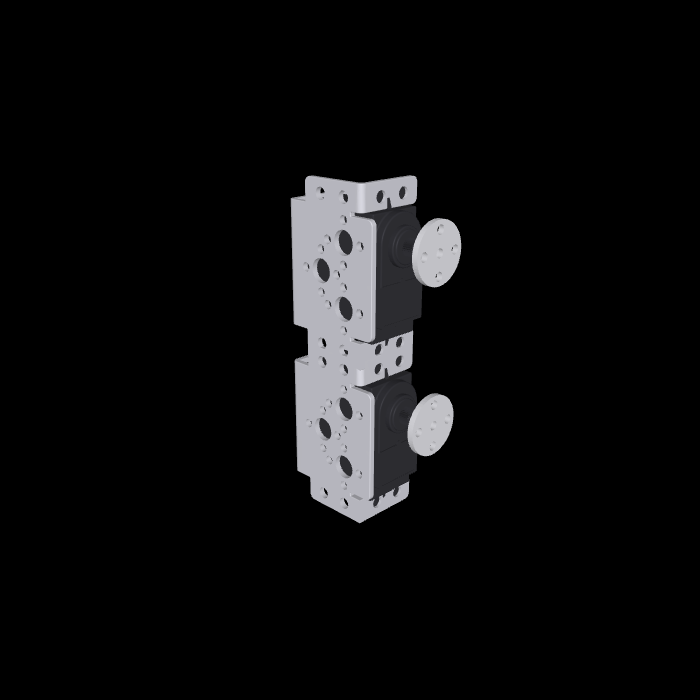
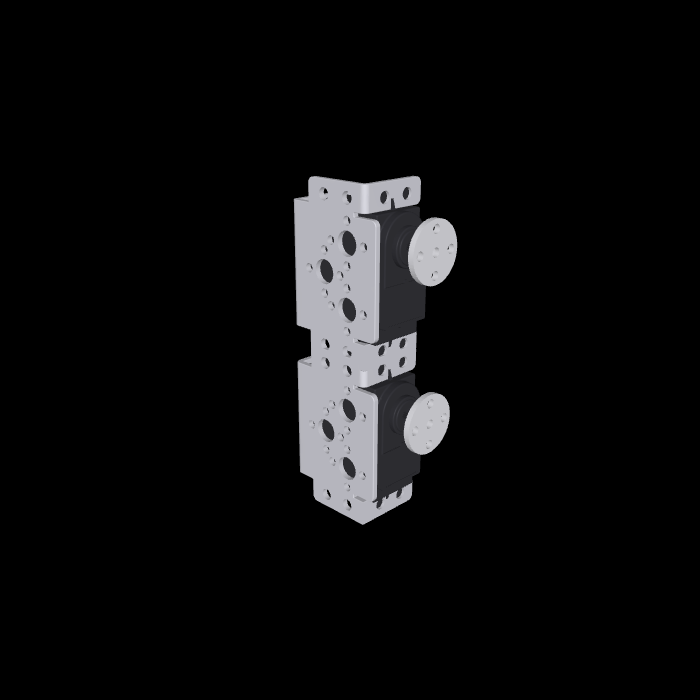
Add physics check + physics-in-the-loop genes/DNA; leg assembly (ankle+thigh) left/right with disc-to-hole mate

Changed region(s): [[0.39, 0.24, 0.66, 0.75], [0.63, 0.57, 0.66, 0.63]]

diff --git a/.opencode/skills/stl-mate/stl_mate.py b/.opencode/skills/stl-mate/stl_mate.py
@@ -233,6 +233,61 @@ def cmd_previews(args):
     print(f"{ok}/{len(files)} previews written")
 
 
+def cmd_check(args):
+    """Physics/assembly sanity check on a compiled MJCF (deterministic verdict)."""
+    import mujoco
+    m = mujoco.MjModel.from_xml_path(args.mjcf)
+    d = mujoco.MjData(m)
+    mujoco.mj_forward(m, d)
+
+    ok = True
+    print(f"CHECK {args.mjcf}")
+    print(f"compile: OK nbody={m.nbody} ngeom={m.ngeom} njnt={m.njnt} nq={m.nq} nu={m.nu}")
+
+    collision_bodies = set()
+    for i in range(m.ngeom):
+        if m.geom_contype[i] or m.geom_conaffinity[i]:
+            collision_bodies.add(int(m.geom_bodyid[i]))
+
+    for i in range(1, m.nbody):
+        n = mujoco.mj_id2name(m, mujoco.mjtObj.mjOBJ_BODY, i)
+        mass = float(m.body_mass[i])
+        flag = ""
+        if mass <= 0 and i in collision_bodies:
+            ok = False
+            flag = "  <-- FAIL collision body mass<=0"
+        print(f"body {n:18s} mass={mass:.6f} ipos={np.round(m.body_ipos[i], 5)}{flag}")
+
+    for j in range(m.njnt):
+        n = mujoco.mj_id2name(m, mujoco.mjtObj.mjOBJ_JOINT, j)
+        ax = m.jnt_axis[j]
+        rng = np.round(m.jnt_range[j], 4).tolist() if m.jnt_limited[j] else "unlimited"
+        print(f"joint {str(n):16s} type={int(m.jnt_type[j])} axis={np.round(ax,3)} range={rng}")
+        if float(np.linalg.norm(ax)) < 1e-6:
+            ok = False
+            print("   <-- FAIL zero joint axis")
+
+    deepest = 0.0
+    pairs = {}
+    for i in range(d.ncon):
+        c = d.contact[i]
+        deepest = min(deepest, float(c.dist))
+        b1 = mujoco.mj_id2name(m, mujoco.mjtObj.mjOBJ_BODY, m.geom_bodyid[c.geom1])
+        b2 = mujoco.mj_id2name(m, mujoco.mjtObj.mjOBJ_BODY, m.geom_bodyid[c.geom2])
+        pairs[(b1, b2)] = pairs.get((b1, b2), 0) + 1
+    pen_mm = -deepest * 1000.0
+    print(f"contacts: ncon={d.ncon} deepest_penetration={pen_mm:.3f} mm")
+    for (b1, b2), k in sorted(pairs.items(), key=lambda x: -x[1])[:12]:
+        print(f"   {b1} <-> {b2}: {k}")
+    if pen_mm > args.max_pen:
+        ok = False
+        print(f"   <-- FAIL penetration {pen_mm:.2f}mm > {args.max_pen}mm")
+
+    print(f"COM (world): {np.round(d.subtree_com[0], 5)}")
+    print("VERDICT:", "PASS" if ok else "FAIL")
+    sys.exit(0 if ok else 1)
+
+
 def main():
     ap = argparse.ArgumentParser(prog="stl_mate")
     sub = ap.add_subparsers(dest="cmd", required=True)
@@ -264,6 +319,11 @@ def main():
     r.add_argument("--width", type=int, default=900)
     r.add_argument("--height", type=int, default=700)
     r.set_defaults(func=cmd_render)
+
+    ck = sub.add_parser("check", help="physics/assembly sanity check on a compiled MJCF")
+    ck.add_argument("mjcf")
+    ck.add_argument("--max-pen", type=float, default=3.0, help="max allowed penetration in mm")
+    ck.set_defaults(func=cmd_check)
 
     pv = sub.add_parser("previews", help="render each matched MJCF to a PNG alongside it")
     pv.add_argument("glob")

diff --git a/.opencode/agents/action.md b/.opencode/agents/action.md
@@ -20,6 +20,9 @@ You are the **Action** agent — the best at action and execution in the world. 
 - `sdcard-gateway-timeout-recovery` (harden, NEW from github `gene_gateway_timeout_recovery`): Retry once, then split + parallel subagents on timeout.
 - `sdcard-stl-mate-geometry` (3d, balanced): Place/align/mirror STL parts with `stl_mate.py` (bbox, holes, `mirror --axis y`, `world` check).
 - `sdcard-mjcf-preview` (3d, balanced): Refresh `<name>.png` beside every `<name>.xml` (`stl_mate.py previews`) as the visual proof.
+- `sdcard-physics-in-the-loop` (workflow, harden): Gate every MJCF change on `stl_mate.py check <xml>` = VERDICT PASS.
+- `sdcard-embodied-cad` (workflow, harden): Derive every pos/quat from `stl_mate.py`; never freehand coordinates.
+- `sdcard-assembly-joint-cost` (workflow, balanced): Maximize contacts, minimize penetration when mating parts.
 
 ## Memory
 - Read `.opencode/memory/short-term.md` and `.opencode/memory/long-term.md` first; append your phase summary to short-term (keep <=20 turns).

diff --git a/.opencode/agents/plan.md b/.opencode/agents/plan.md
@@ -18,6 +18,10 @@ You are the **Plan** agent — the best planner in the world. You turn Discover'
 - `sdcard-gpu-temp` (harden): Cap 180W, monitor temps.
 - `sdcard-stl-mate-geometry` (3d, balanced): Design mates from measured holes/axes (`stl_mate.py holes/axes`), never eyeballed coordinates.
 - `sdcard-mjcf-preview` (3d, balanced): Plan a `<name>.png` preview beside every `<name>.xml`.
+- `sdcard-physics-in-the-loop` (workflow, harden): Plan the generate→simulate→refine loop; acceptance = `stl_mate.py check` PASS.
+- `sdcard-assembly-joint-cost` (workflow, balanced): Score mates by contact pairs vs penetration (JoinABLe cost).
+- `sdcard-embodied-cad` (workflow, harden): All pos/quat come from deterministic tools.
+- `sdcard-dof-grounded` (workflow, harden): Every joint declares non-zero axis + finite range.
 
 ## Memory
 - Read `.opencode/memory/short-term.md` and `.opencode/memory/long-term.md` first; append your phase summary to short-term (keep <=20 turns).

diff --git a/.opencode/skills/stl-mate/SKILL.md b/.opencode/skills/stl-mate/SKILL.md
@@ -22,6 +22,7 @@ uv run --with numpy --with mujoco python .opencode/skills/stl-mate/stl_mate.py <
 | `holes FILE --axis X --min A --max B [--res 0.2]` | find holes through a slab (e.g. a bracket wall); prints area + centre in the two projected axes |
 | `axes FILE` | vertex distribution per axis — find a part's long/thin axes |
 | `mirror FILE OUT --axis y` | write a properly-wound mirrored STL (negate axis + reverse triangle order) |
+| `check MJCF [--max-pen MM]` | deterministic physics/assembly verdict: compile, per-body mass, joint axes/ranges, contacts + deepest penetration, COM. Prints `VERDICT: PASS/FAIL`, exits non-zero on FAIL |
 | `world MJCF` | print every body/geom world position of a compiled MJCF (verify placement) |
 | `render MJCF OUT.png [--az --el --dist --lookat x y z]` | offscreen PNG for visual verification |
 | `previews GLOB` | render each matched MJCF to a `<name>.png` **alongside** it (auto-framed) so every `*.xml` has a viewable image |

diff --git a/.opencode/agents/verify.md b/.opencode/agents/verify.md
@@ -19,6 +19,9 @@ You are the **Verify** agent — grounded in fact, reality, evidence, numbers an
 - `sdcard-reflect-after-session` (sacred, harden): Reflect, create/activate genes, run tests, commit.
 - `sdcard-stl-mate-geometry` (3d, balanced): Verify placements with `stl_mate.py world` + `render` down the shaft axis.
 - `sdcard-mjcf-preview` (3d, balanced): Confirm a non-black PNG sits beside every changed XML.
+- `sdcard-physics-in-the-loop` (workflow, harden): Run `stl_mate.py check`; verdict is authoritative, not the model's claim.
+- `sdcard-dof-grounded` (workflow, harden): Verify joint axes/ranges from the check output.
+- `sdcard-assembly-joint-cost` (workflow, balanced): Check penetration/contact numbers before passing.
 
 ## Memory
 - Read `.opencode/memory/short-term.md` and `.opencode/memory/long-term.md` first; append your phase summary to short-term (keep <=20 turns).

diff --git a/.opencode/agents/discover.md b/.opencode/agents/discover.md
@@ -18,6 +18,8 @@ You are the **Discover** agent — the best in the world at discovering context,
 - `sdcard-stagger-downloads` (harden): Stagger parallel downloads if needed.
 - `sdcard-stl-mate-geometry` (3d, balanced): Measure STL bbox/holes/axes with `.opencode/skills/stl-mate/stl_mate.py` before proposing any MJCF placement.
 - `sdcard-mjcf-preview` (3d, balanced): Every XML keeps a viewable PNG beside it (`stl_mate.py previews`).
+- `sdcard-embodied-cad` (workflow, harden): Coordinates come from tools (`stl_mate.py bbox/holes/axes/world`), never freehand.
+- `sdcard-physics-in-the-loop` (workflow, harden): Physics feedback is a deterministic check (`stl_mate.py check`), not model intuition.
 
 ## Memory
 - Read `.opencode/memory/short-term.md` and `.opencode/memory/long-term.md` first; append your phase summary to short-term (keep <=20 turns).
